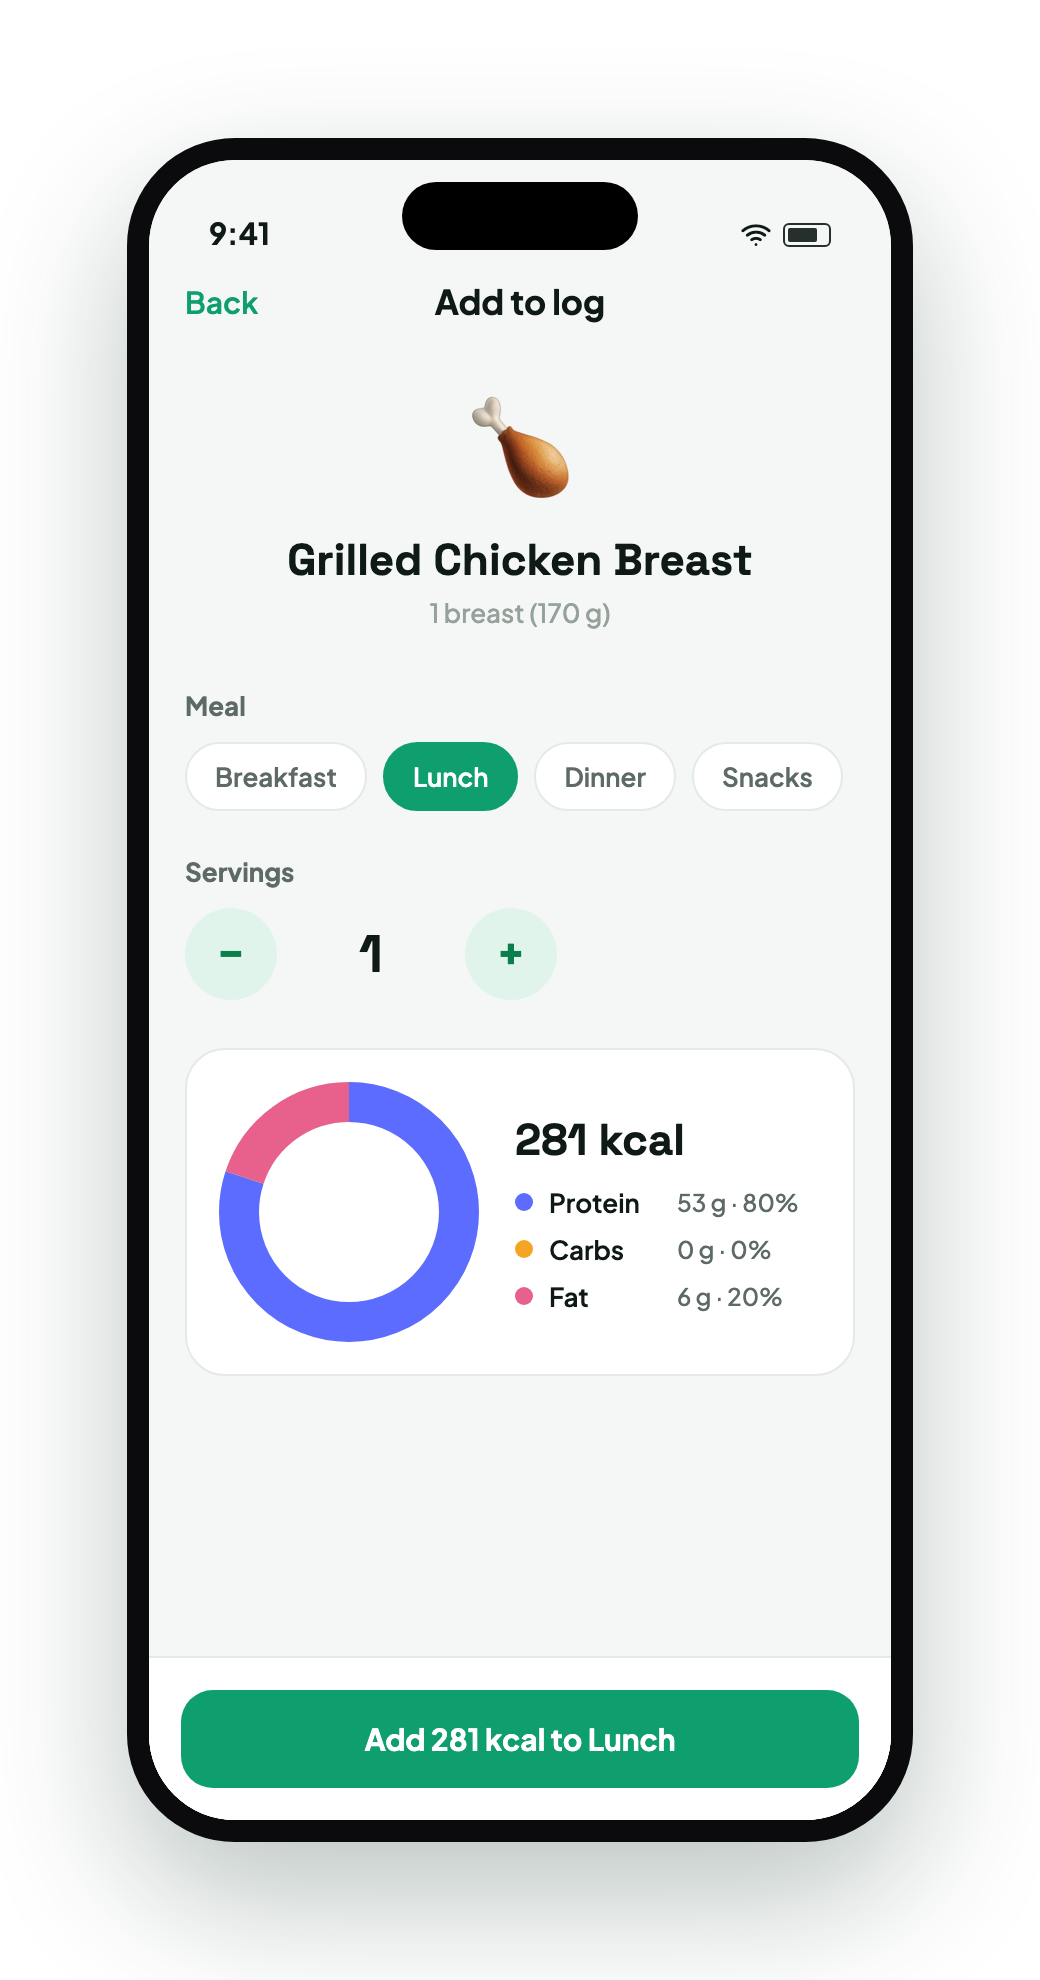
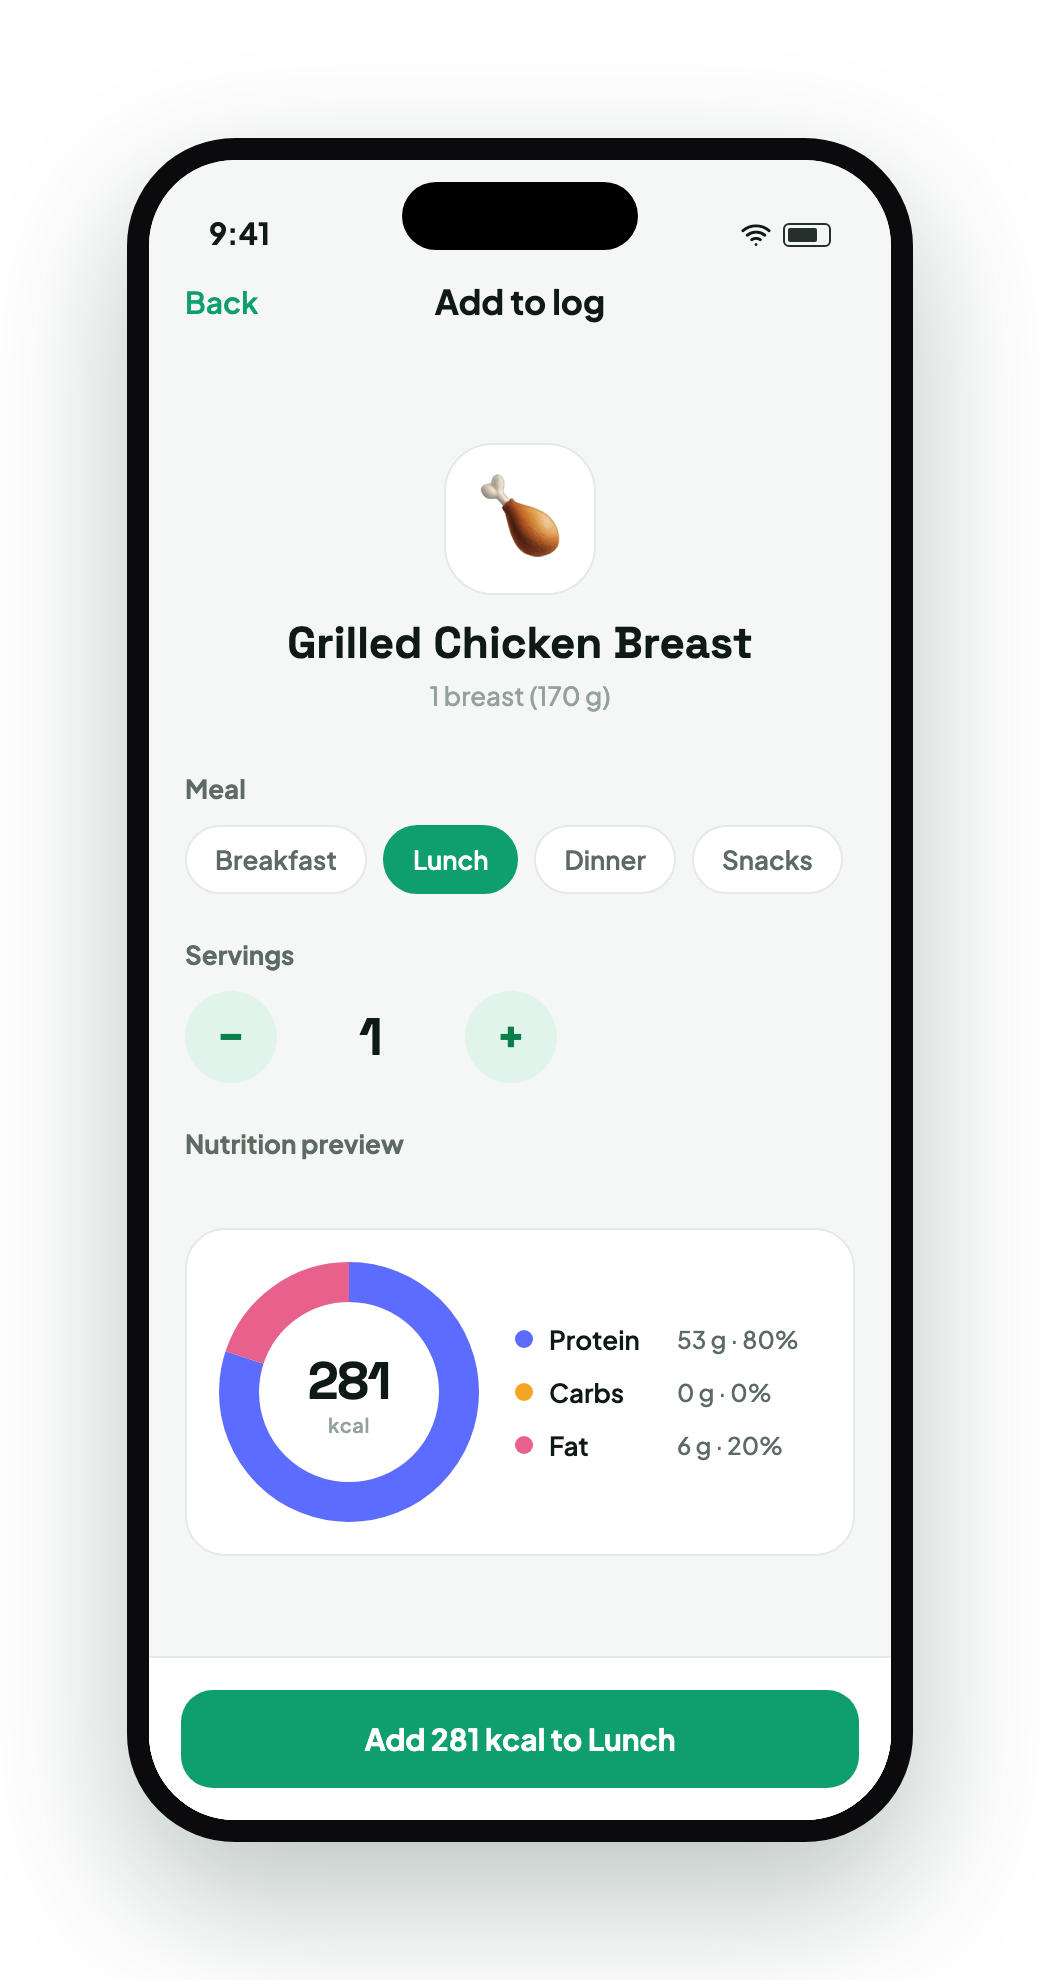
Eat2Beat: UX polish pass — food chips, donut centers, denser Add
- Food emoji → tinted bordered chips (FoodAvatar) across log rows and
  the Add/FoodDetail heroes, so food reads as designed iconography
  instead of raw emoji (the #1 portfolio tell).
- kcal list values gain a small unit label (was bare numbers).
- MacroDonut can render a center value/label; Add preview shows kcal in
  the hole and drops the duplicate kcal line.
- Add screen vertically centers its content — removes the large dead
  zone above the CTA.
- a11y: accessibilityRole/Label on the remove-entry button.

tsc clean; 36/36 tests green.

diff --git a/eat2beat/src/components/FoodRow.tsx b/eat2beat/src/components/FoodRow.tsx
@@ -1,11 +1,33 @@
 import React from 'react';
 import { View, Text, StyleSheet, Pressable } from 'react-native';
-import { FONT, type Palette } from '../theme';
+import { FONT, RADIUS, type Palette } from '../theme';
 import { useStyles } from '../theme-context';
 import type { Entry, Food } from '../types';
 import { entryMacros } from '../selectors';
 
-/** One logged entry row: emoji, name, serving amount, kcal. */
+/** Emoji sitting in a tinted rounded chip, so food reads as designed iconography
+ *  rather than a raw emoji dropped into a row. */
+export function FoodAvatar({ emoji, size = 40 }: { emoji: string; size?: number }) {
+  const styles = useStyles(makeStyles);
+  return (
+    <View style={[styles.avatar, { width: size, height: size, borderRadius: size * 0.32 }]}>
+      <Text style={{ fontSize: size * 0.55 }}>{emoji}</Text>
+    </View>
+  );
+}
+
+/** kcal value with a small unit underneath, right-aligned. */
+function KcalCell({ kcal }: { kcal: number }) {
+  const styles = useStyles(makeStyles);
+  return (
+    <View style={styles.kcalCell}>
+      <Text style={styles.kcal}>{kcal}</Text>
+      <Text style={styles.kcalUnit}>kcal</Text>
+    </View>
+  );
+}
+
+/** One logged entry row: avatar, name, serving amount, kcal. */
 export function EntryRow({
   entry,
   food,
@@ -22,7 +44,7 @@ export function EntryRow({
   const servingLabel = entry.servings === 1 ? food.serving : `${entry.servings} × ${food.serving}`;
   return (
     <Pressable onPress={onPress} style={styles.row}>
-      <Text style={styles.emoji}>{food.emoji}</Text>
+      <FoodAvatar emoji={food.emoji} />
       <View style={styles.mid}>
         <Text style={styles.name} numberOfLines={1}>
           {food.name}
@@ -31,9 +53,9 @@ export function EntryRow({
           {servingLabel}
         </Text>
       </View>
-      <Text style={styles.kcal}>{m.kcal}</Text>
+      <KcalCell kcal={m.kcal} />
       {onRemove ? (
-        <Pressable onPress={onRemove} hitSlop={10} style={styles.remove}>
+        <Pressable onPress={onRemove} hitSlop={10} style={styles.remove} accessibilityRole="button" accessibilityLabel={`Remove ${food.name}`}>
           <Text style={styles.removeX}>×</Text>
         </Pressable>
       ) : null}
@@ -46,7 +68,7 @@ export function FoodListRow({ food, onPress }: { food: Food; onPress?: () => voi
   const styles = useStyles(makeStyles);
   return (
     <Pressable onPress={onPress} style={styles.row}>
-      <Text style={styles.emoji}>{food.emoji}</Text>
+      <FoodAvatar emoji={food.emoji} />
       <View style={styles.mid}>
         <Text style={styles.name} numberOfLines={1}>
           {food.name}
@@ -56,20 +78,22 @@ export function FoodListRow({ food, onPress }: { food: Food; onPress?: () => voi
           {food.serving} · P {food.protein} · C {food.carbs} · F {food.fat}
         </Text>
       </View>
-      <Text style={styles.kcal}>{food.kcal}</Text>
+      <KcalCell kcal={food.kcal} />
     </Pressable>
   );
 }
 
 const makeStyles = (C: Palette) =>
   StyleSheet.create({
-    row: { flexDirection: 'row', alignItems: 'center', paddingVertical: 10, gap: 12 },
-    emoji: { fontSize: 24, width: 30, textAlign: 'center' },
+    row: { flexDirection: 'row', alignItems: 'center', paddingVertical: 8, gap: 12 },
+    avatar: { backgroundColor: C.card, borderWidth: 1, borderColor: C.cardBorder, alignItems: 'center', justifyContent: 'center' },
     mid: { flex: 1 },
     name: { fontFamily: FONT.bodySemi, fontSize: 14, color: C.text },
     brand: { fontFamily: FONT.body, fontSize: 12, color: C.textFaint },
     sub: { fontFamily: FONT.body, fontSize: 12, color: C.textDim, marginTop: 2 },
-    kcal: { fontFamily: FONT.display, fontSize: 15, color: C.text },
-    remove: { width: 22, height: 22, alignItems: 'center', justifyContent: 'center' },
+    kcalCell: { alignItems: 'flex-end', minWidth: 34 },
+    kcal: { fontFamily: FONT.display, fontSize: 16, color: C.text },
+    kcalUnit: { fontFamily: FONT.bodySemi, fontSize: 9, color: C.textFaint, letterSpacing: 0.3, marginTop: -1 },
+    remove: { width: 24, height: 24, alignItems: 'center', justifyContent: 'center' },
     removeX: { fontFamily: FONT.body, fontSize: 20, color: C.textFaint, marginTop: -2 },
   });

diff --git a/eat2beat/src/screens/AddFood.tsx b/eat2beat/src/screens/AddFood.tsx
@@ -4,7 +4,7 @@ import { FONT, RADIUS, MACROS, type Palette } from '../theme';
 import { useTheme, useStyles } from '../theme-context';
 import { fmt } from '../ui';
 import { MacroDonut } from '../components/charts';
-import { FoodListRow } from '../components/FoodRow';
+import { FoodListRow, FoodAvatar } from '../components/FoodRow';
 import { useStore } from '../store';
 import { entryMacros, macroCaloriePct } from '../selectors';
 import { MEAL_LABEL, MEAL_ORDER, MealKey, Food } from '../types';
@@ -48,7 +48,7 @@ export default function AddFood({
         <Header title="Add to log" onClose={() => setSelected(null)} closeLabel="Back" />
         <ScrollView contentContainerStyle={styles.body}>
           <View style={styles.foodHead}>
-            <Text style={styles.bigEmoji}>{selected.emoji}</Text>
+            <FoodAvatar emoji={selected.emoji} size={76} />
             <Text style={styles.foodName}>{selected.name}</Text>
             {selected.brand ? <Text style={styles.foodBrand}>{selected.brand}</Text> : null}
             <Text style={styles.foodServing}>{selected.serving}</Text>
@@ -89,10 +89,10 @@ export default function AddFood({
           </View>
 
           {/* nutrition preview */}
+          <Text style={styles.fieldLabel}>Nutrition preview</Text>
           <View style={styles.previewCard}>
-            <MacroDonut pct={pct} />
+            <MacroDonut pct={pct} centerValue={fmt(preview.kcal)} centerLabel="kcal" />
             <View style={styles.previewStats}>
-              <Text style={styles.previewKcal}>{fmt(preview.kcal)} kcal</Text>
               <MacroLegend label="Protein" g={preview.protein} pct={pct.protein} color={MACROS.protein.color} />
               <MacroLegend label="Carbs" g={preview.carbs} pct={pct.carbs} color={MACROS.carbs.color} />
               <MacroLegend label="Fat" g={preview.fat} pct={pct.fat} color={MACROS.fat.color} />
@@ -197,10 +197,9 @@ const makeStyles = (C: Palette) =>
   list: { paddingHorizontal: 18, paddingBottom: 24 },
   resultCount: { fontFamily: FONT.bodySemi, fontSize: 12, color: C.textFaint, marginVertical: 10 },
 
-  body: { padding: 18, paddingBottom: 20 },
+  body: { padding: 18, paddingBottom: 20, flexGrow: 1, justifyContent: 'center' },
   foodHead: { alignItems: 'center', marginBottom: 8 },
-  bigEmoji: { fontSize: 52 },
-  foodName: { fontFamily: FONT.display, fontSize: 22, color: C.text, marginTop: 6, textAlign: 'center' },
+  foodName: { fontFamily: FONT.display, fontSize: 22, color: C.text, marginTop: 10, textAlign: 'center' },
   foodBrand: { fontFamily: FONT.bodySemi, fontSize: 13, color: C.textDim, marginTop: 2 },
   foodServing: { fontFamily: FONT.body, fontSize: 13, color: C.textFaint, marginTop: 4 },
 
@@ -234,8 +233,7 @@ const makeStyles = (C: Palette) =>
     borderRadius: RADIUS.lg,
     padding: 16,
   },
-  previewStats: { flex: 1, gap: 7 },
-  previewKcal: { fontFamily: FONT.display, fontSize: 22, color: C.text, marginBottom: 2 },
+  previewStats: { flex: 1, gap: 10 },
   legendRow: { flexDirection: 'row', alignItems: 'center', gap: 8 },
   legendDot: { width: 9, height: 9, borderRadius: 5 },
   legendLabel: { fontFamily: FONT.bodySemi, fontSize: 13, color: C.text, width: 56 },

diff --git a/eat2beat/src/components/charts.tsx b/eat2beat/src/components/charts.tsx
@@ -159,12 +159,18 @@ export function MacroDonut({
   pct,
   size = 130,
   stroke = 20,
+  centerValue,
+  centerLabel,
 }: {
   pct: { protein: number; carbs: number; fat: number };
   size?: number;
   stroke?: number;
+  /** Optional big number shown in the hole (e.g. total kcal) so it isn't empty. */
+  centerValue?: string;
+  centerLabel?: string;
 }) {
   const { C } = useTheme();
+  const styles = useStyles(makeStyles);
   const r = (size - stroke) / 2;
   const cx = size / 2;
   const cy = size / 2;
@@ -176,29 +182,37 @@ export function MacroDonut({
   ];
   let offset = 0;
   return (
-    <Svg width={size} height={size}>
-      <G rotation={-90} origin={`${cx}, ${cy}`}>
-        <Circle cx={cx} cy={cy} r={r} stroke={C.ring} strokeWidth={stroke} fill="none" />
-        {segs.map((s, i) => {
-          const len = (s.v / 100) * circ;
-          const el = (
-            <Circle
-              key={i}
-              cx={cx}
-              cy={cy}
-              r={r}
-              stroke={s.c}
-              strokeWidth={stroke}
-              fill="none"
-              strokeDasharray={`${len} ${circ - len}`}
-              strokeDashoffset={-offset}
-            />
-          );
-          offset += len;
-          return el;
-        })}
-      </G>
-    </Svg>
+    <View style={{ width: size, height: size, alignItems: 'center', justifyContent: 'center' }}>
+      <Svg width={size} height={size}>
+        <G rotation={-90} origin={`${cx}, ${cy}`}>
+          <Circle cx={cx} cy={cy} r={r} stroke={C.ring} strokeWidth={stroke} fill="none" />
+          {segs.map((s, i) => {
+            const len = (s.v / 100) * circ;
+            const el = (
+              <Circle
+                key={i}
+                cx={cx}
+                cy={cy}
+                r={r}
+                stroke={s.c}
+                strokeWidth={stroke}
+                fill="none"
+                strokeDasharray={`${len} ${circ - len}`}
+                strokeDashoffset={-offset}
+              />
+            );
+            offset += len;
+            return el;
+          })}
+        </G>
+      </Svg>
+      {centerValue != null ? (
+        <View style={styles.donutCenter}>
+          <Text style={[styles.donutValue, { fontSize: Math.round(size * 0.2) }]}>{centerValue}</Text>
+          {centerLabel ? <Text style={styles.donutLabel}>{centerLabel}</Text> : null}
+        </View>
+      ) : null}
+    </View>
   );
 }
 
@@ -292,4 +306,8 @@ const makeStyles = (C: Palette) =>
     macroVal: { fontFamily: FONT.body, fontSize: 13 },
     macroTrack: { height: 9, borderRadius: 5, backgroundColor: C.ring, overflow: 'hidden' },
     macroFill: { height: '100%', borderRadius: 5 },
+
+    donutCenter: { position: 'absolute', alignItems: 'center' },
+    donutValue: { fontFamily: FONT.display, color: C.text, letterSpacing: -0.5 },
+    donutLabel: { fontFamily: FONT.bodySemi, fontSize: 10, color: C.textFaint, marginTop: -1, letterSpacing: 0.3 },
   });

diff --git a/eat2beat/src/screens/FoodDetail.tsx b/eat2beat/src/screens/FoodDetail.tsx
@@ -4,6 +4,7 @@ import { FONT, RADIUS, MACROS, type Palette } from '../theme';
 import { useStyles } from '../theme-context';
 import { fmt } from '../ui';
 import { MacroDonut } from '../components/charts';
+import { FoodAvatar } from '../components/FoodRow';
 import { useStore } from '../store';
 import { macroCaloriePct } from '../selectors';
 
@@ -34,7 +35,7 @@ export default function FoodDetail({
       <Header onBack={onBack} />
       <ScrollView contentContainerStyle={styles.body}>
         <View style={styles.hero}>
-          <Text style={styles.emoji}>{food.emoji}</Text>
+          <FoodAvatar emoji={food.emoji} size={84} />
           <Text style={styles.name}>{food.name}</Text>
           {food.brand ? <Text style={styles.brand}>{food.brand}</Text> : null}
           <Text style={styles.serving}>per {food.serving}</Text>
@@ -110,8 +111,7 @@ const makeStyles = (C: Palette) =>
 
     body: { padding: 18, paddingBottom: 20 },
     hero: { alignItems: 'center', marginBottom: 6 },
-    emoji: { fontSize: 60 },
-    name: { fontFamily: FONT.display, fontSize: 24, color: C.text, marginTop: 8, textAlign: 'center' },
+    name: { fontFamily: FONT.display, fontSize: 24, color: C.text, marginTop: 12, textAlign: 'center' },
     brand: { fontFamily: FONT.bodySemi, fontSize: 14, color: C.textDim, marginTop: 3 },
     serving: { fontFamily: FONT.body, fontSize: 13, color: C.textFaint, marginTop: 4 },
 
